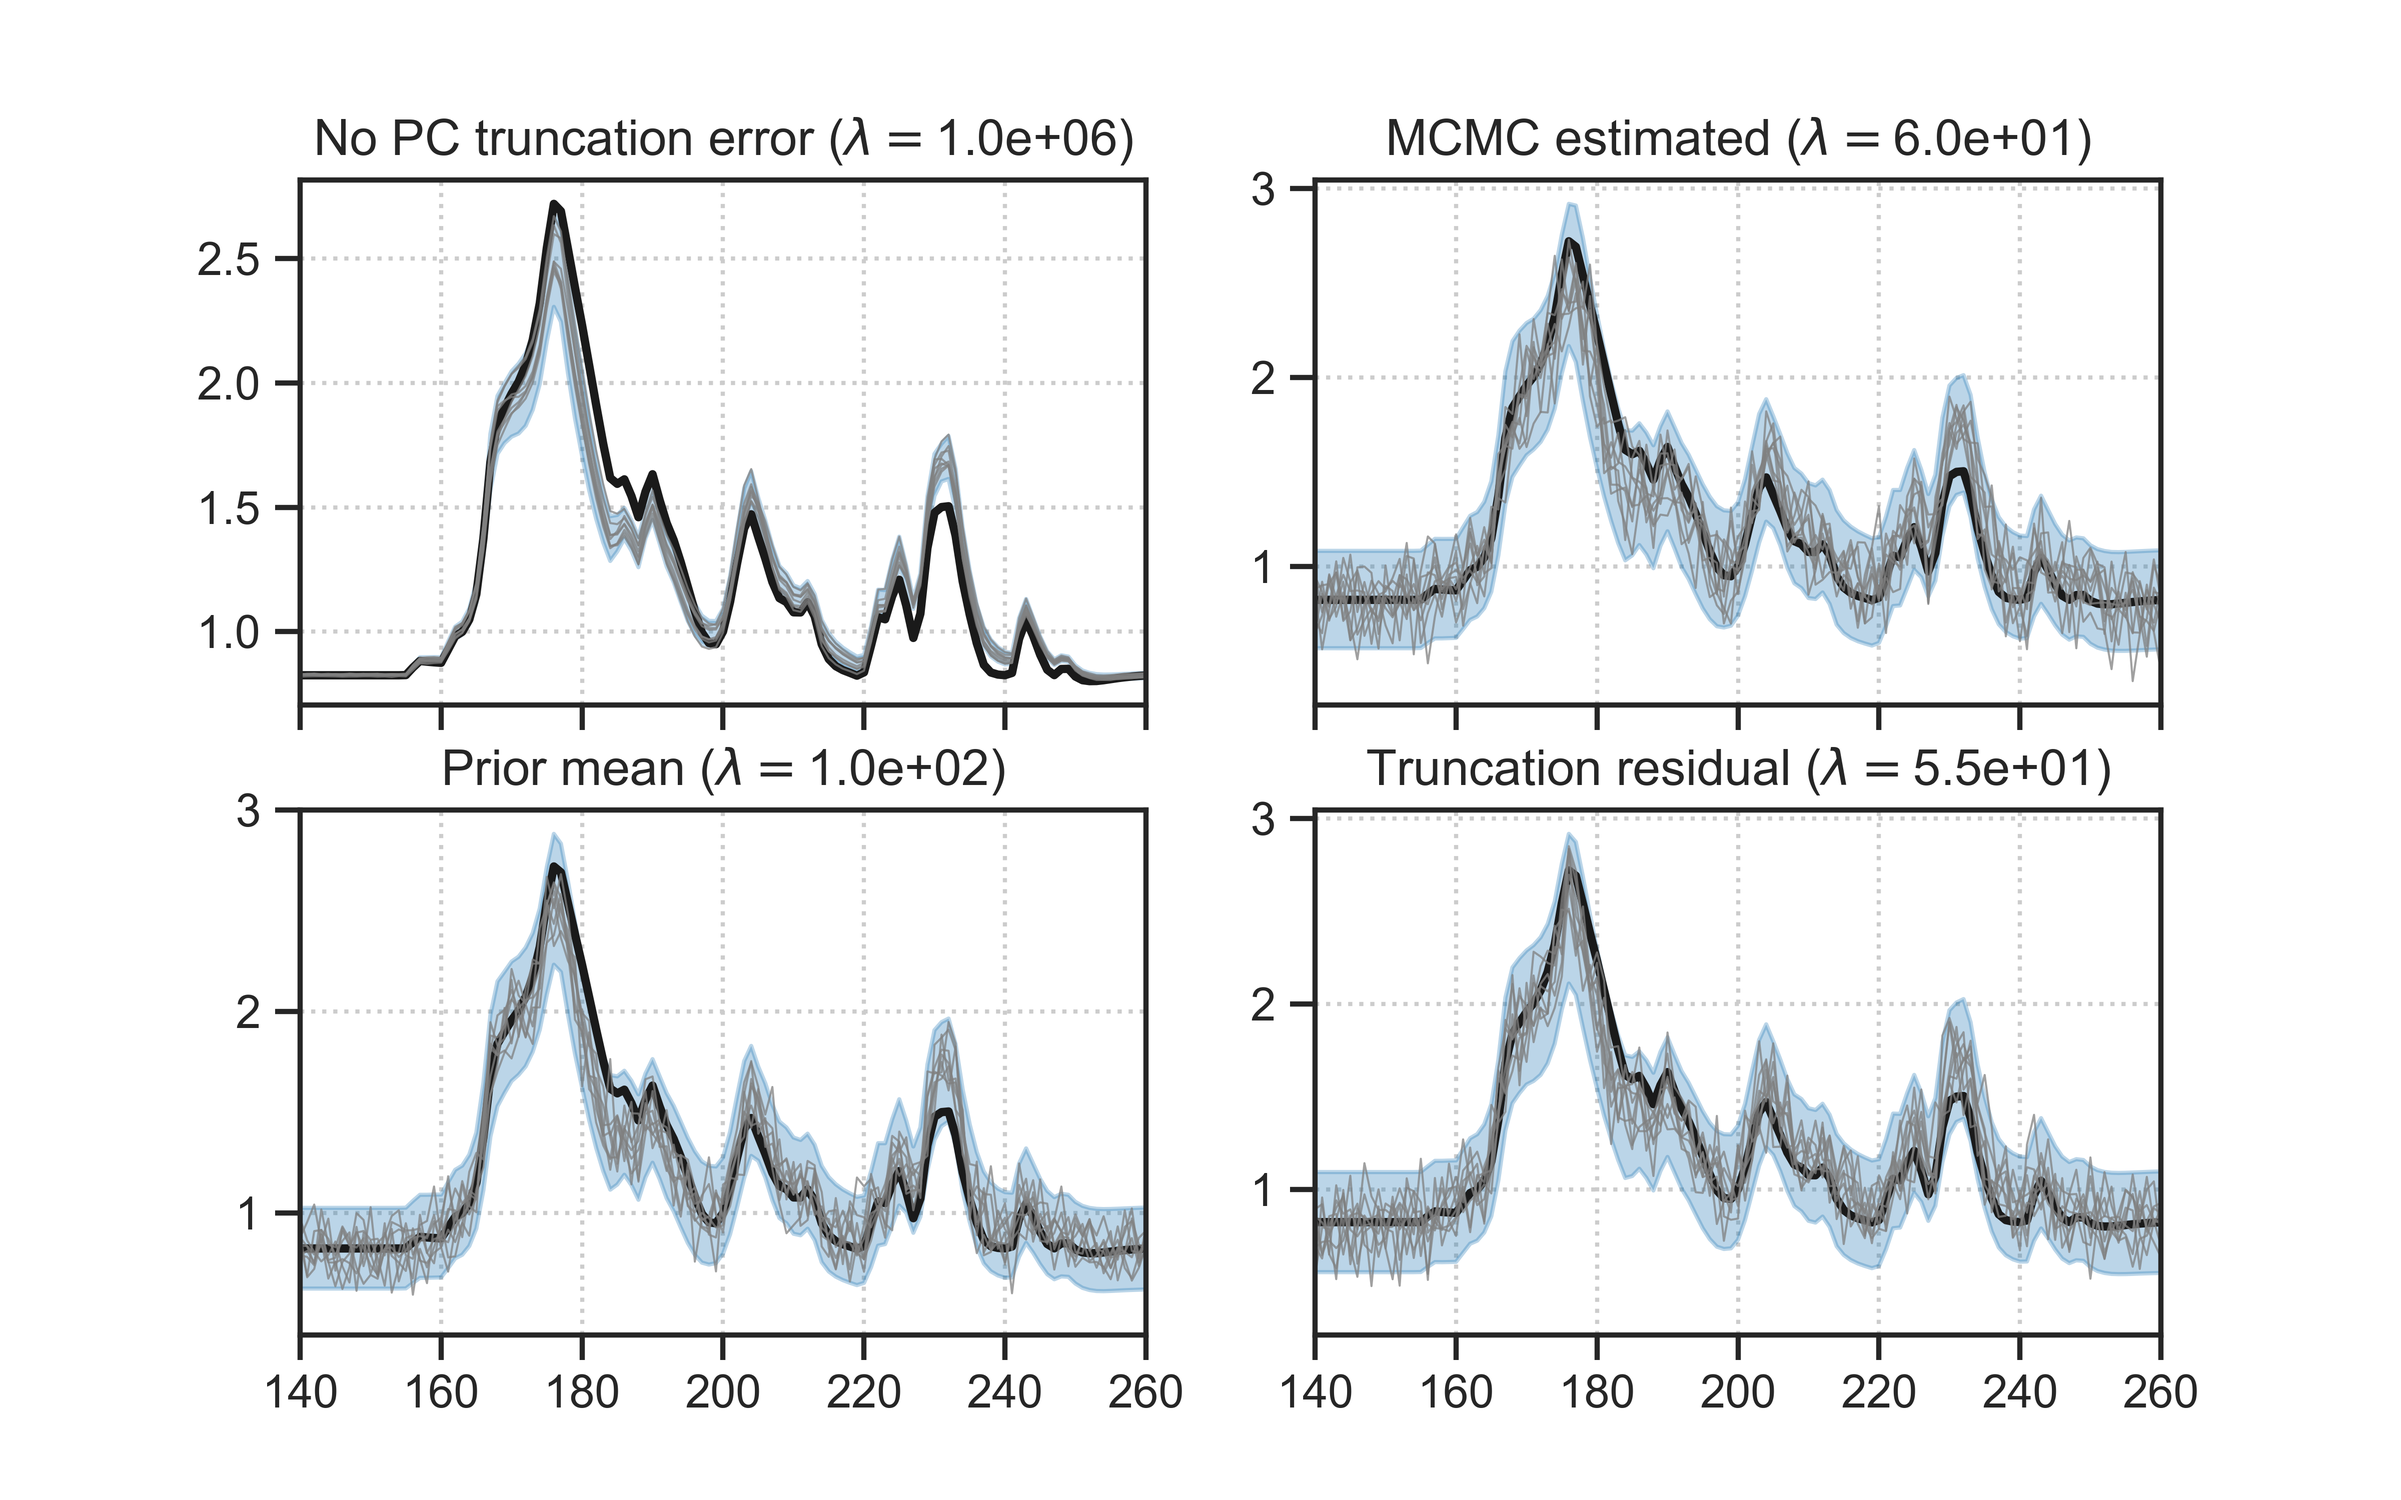
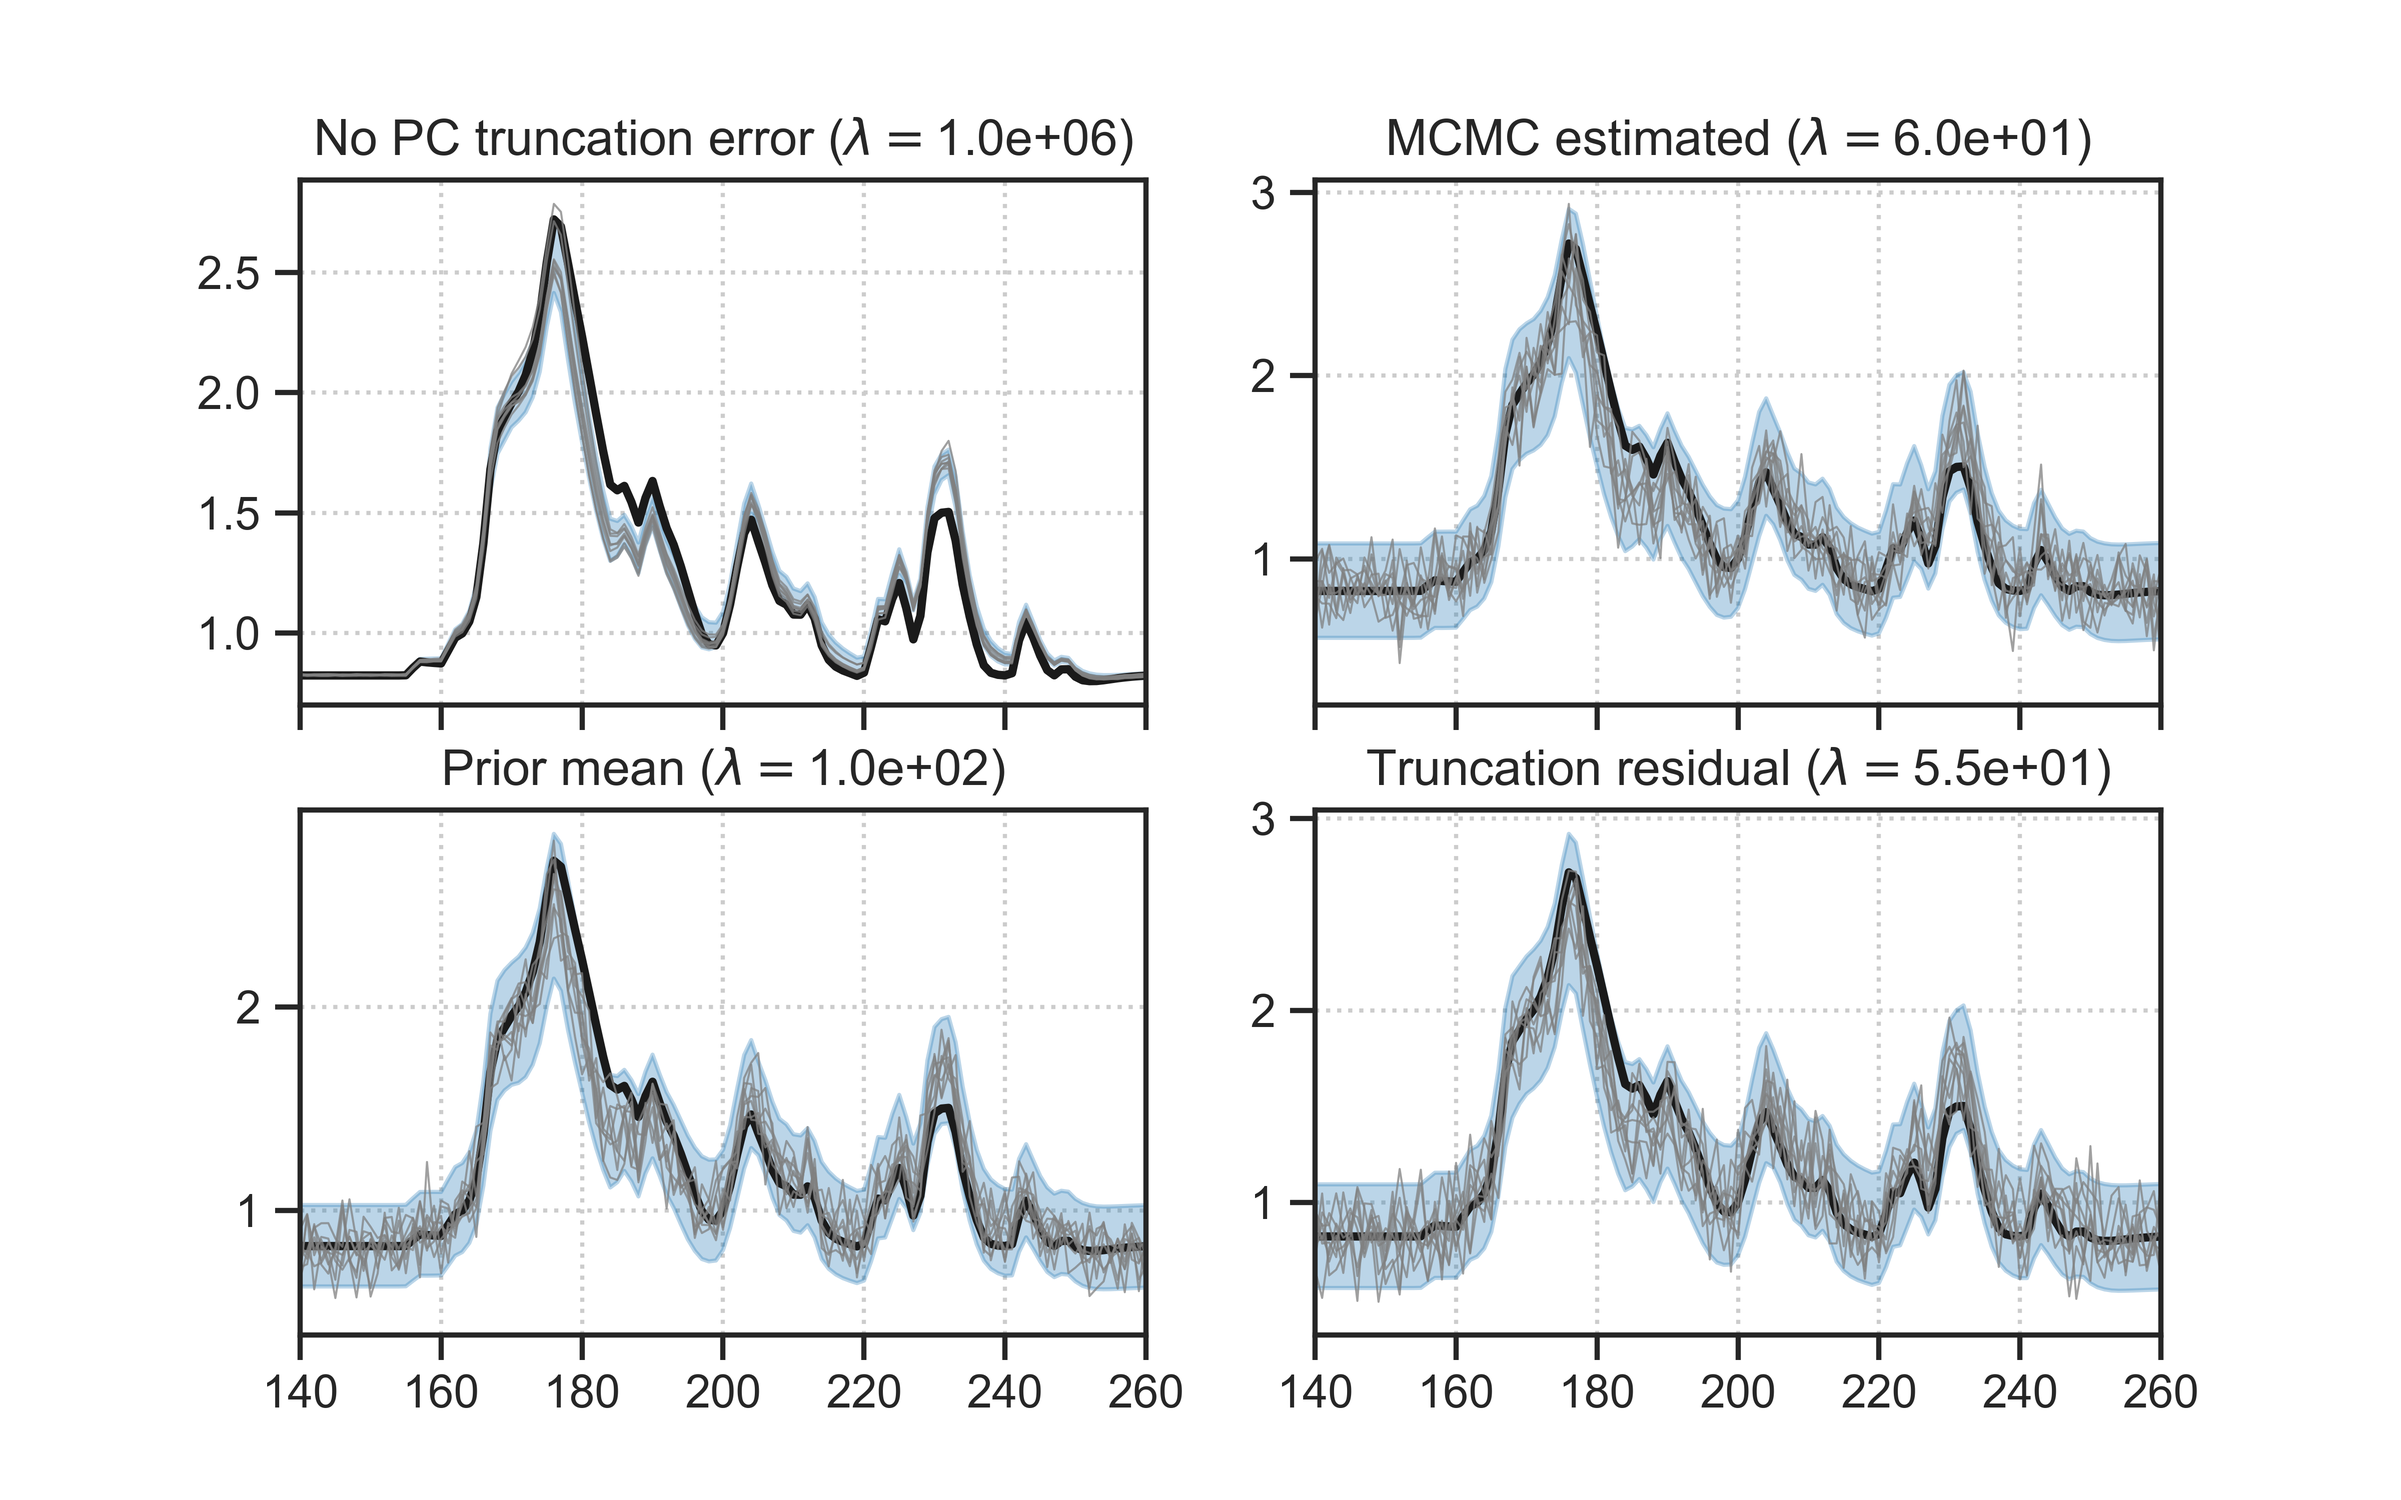
Larger integration set for more robust confidence intervals

diff --git a/experiments/synthetic/analysis/assess_all_models.py b/experiments/synthetic/analysis/assess_all_models.py
@@ -43,7 +43,6 @@ def plot_marginal_loss(path, n_sims, n_pcs, m_ref, p_ref):
     CI = None
     full_cis = np.zeros(len(n_pcs))
     coverage = np.zeros(len(n_pcs))
-    # p_index = n_pcs==p
     for i in range(len(n_pcs)):
         p = n_pcs[i]
         performance = np.loadtxt(path.format(m_ref, p), delimiter=',')
@@ -163,75 +162,6 @@ def plot_marginal_loss(path, n_sims, n_pcs, m_ref, p_ref):
     fig.text(0.5, 0.025, 'Number of Simulations', ha='center')
     fig.subplots_adjust(left=0.08, bottom=0.1, right=0.92, top=0.975, wspace=0.4, hspace=0.3)
     return fig
-
-
-def plot_npc_loss(path, n_sims, n_pcs, m):
-    """
-    Plot GP prediction RMSE, std residuals for n_sims and n_pcs
-    """
-    fig, axs = plt.subplots(figsize=(10, 4), ncols=4)
-    ax1,ax2,ax3,ax4 = axs
-    RMSE = None
-    MAPE = None
-    CI = None
-    full_cis = np.zeros(len(n_pcs))
-    coverage = np.zeros(len(n_pcs))
-    # p_index = n_pcs==p
-    for i in range(len(n_pcs)):
-        p = n_pcs[i]
-        performance = np.loadtxt(path.format(m, p), delimiter=',')
-        if RMSE is None:
-            n_train = performance.shape[0]
-            RMSE = np.zeros((len(n_pcs), n_train))
-            MAPE = np.zeros((len(n_pcs), n_train))
-            CI = np.zeros((len(n_pcs), n_train))
-            cov = np.zeros((len(n_pcs), n_train))
-        RMSE[i,:] = performance[:,0]
-        MAPE[i,:] = performance[:,1]
-        lower = performance[:, 2]
-        upper = performance[:, 3]
-        CI[i,:] = upper - lower
-        full_cis[i] = performance[0, 4]
-        cov[i,:] = performance[:,5]
-        coverage[i] = np.mean(cov[i])
-
-    metrics = (RMSE.T, 100*MAPE.T, CI.T, 100*cov.T)
-    labels = ('RMSE', 'MAPE (%)', '95% prediction interval width', 'Coverage (%)')
-    alphabet = ('a', 'b', 'c', 'd')
-    dys = (0.05, 5, 0.05, 5)
-    # cbars = [0, 0, 0]
-    # colors = cmocean.cm.amp(np.linspace(0.25, 1, len(n_sims)))
-    medianprops = {'color':'#000000'}
-    boxprops = {'edgecolor':'none'}
-    fc = ['#356575', '#6295A2', '#80B9AD', '#B3E2A7']
-    for i in range(len(metrics)):
-        ax = axs[i]
-        ax.grid(linestyle=':', linewidth=0.5)
-        boxprops['facecolor'] = fc[i]
-        boxes = ax.boxplot(metrics[i], labels=n_pcs, patch_artist=True,
-            medianprops=medianprops, boxprops=boxprops, showcaps=False, showfliers=True,
-            flierprops=flierprops)
-        ax.set_ylabel(labels[i])
-        ymax = np.max(metrics[i])
-        dy = dys[i]
-        upper = dy*np.ceil(ymax/dy)
-        ylim = ax.get_ylim()
-        ax.set_ylim([0, upper])
-        ax.text(-0.25, 1.025, alphabet[i], transform=ax.transAxes,
-            ha='right', va='bottom', fontweight='bold')
-        ax.spines[['right', 'top']].set_visible(False)
-    
-    axs[2].plot(np.arange(1, len(n_pcs)+1), full_cis, 
-        linestyle='', marker='.', color='#000000', markersize=10, zorder=10)
-
-    axs[-1].plot(np.arange(1, len(n_pcs)+1), 100*coverage, 
-        linestyle='', marker='.', color='#000000', markersize=10, zorder=10)
-    axs[-1].set_ylim([0, 100])
-    
-    fig.text(0.5, 0.025, 'Number of PCs', ha='center')
-    fig.subplots_adjust(left=0.08, bottom=0.15, right=0.92, top=0.925, wspace=0.5)
-    return fig
-
 
 def plot_joint_loss(path, n_sims, n_pcs, linestyle='solid'):
     """
@@ -380,7 +310,7 @@ def compute_test_error(train_config, test_config, n_sims, n_pcs,
     if test:
         t_integrate = sampler.random(n=2)
     else:
-        t_integrate = sampler.random(n=64)
+        t_integrate = sampler.random(n=100)
 
     for i in range(len(n_sims)):
         for k in range(len(n_pcs)):
